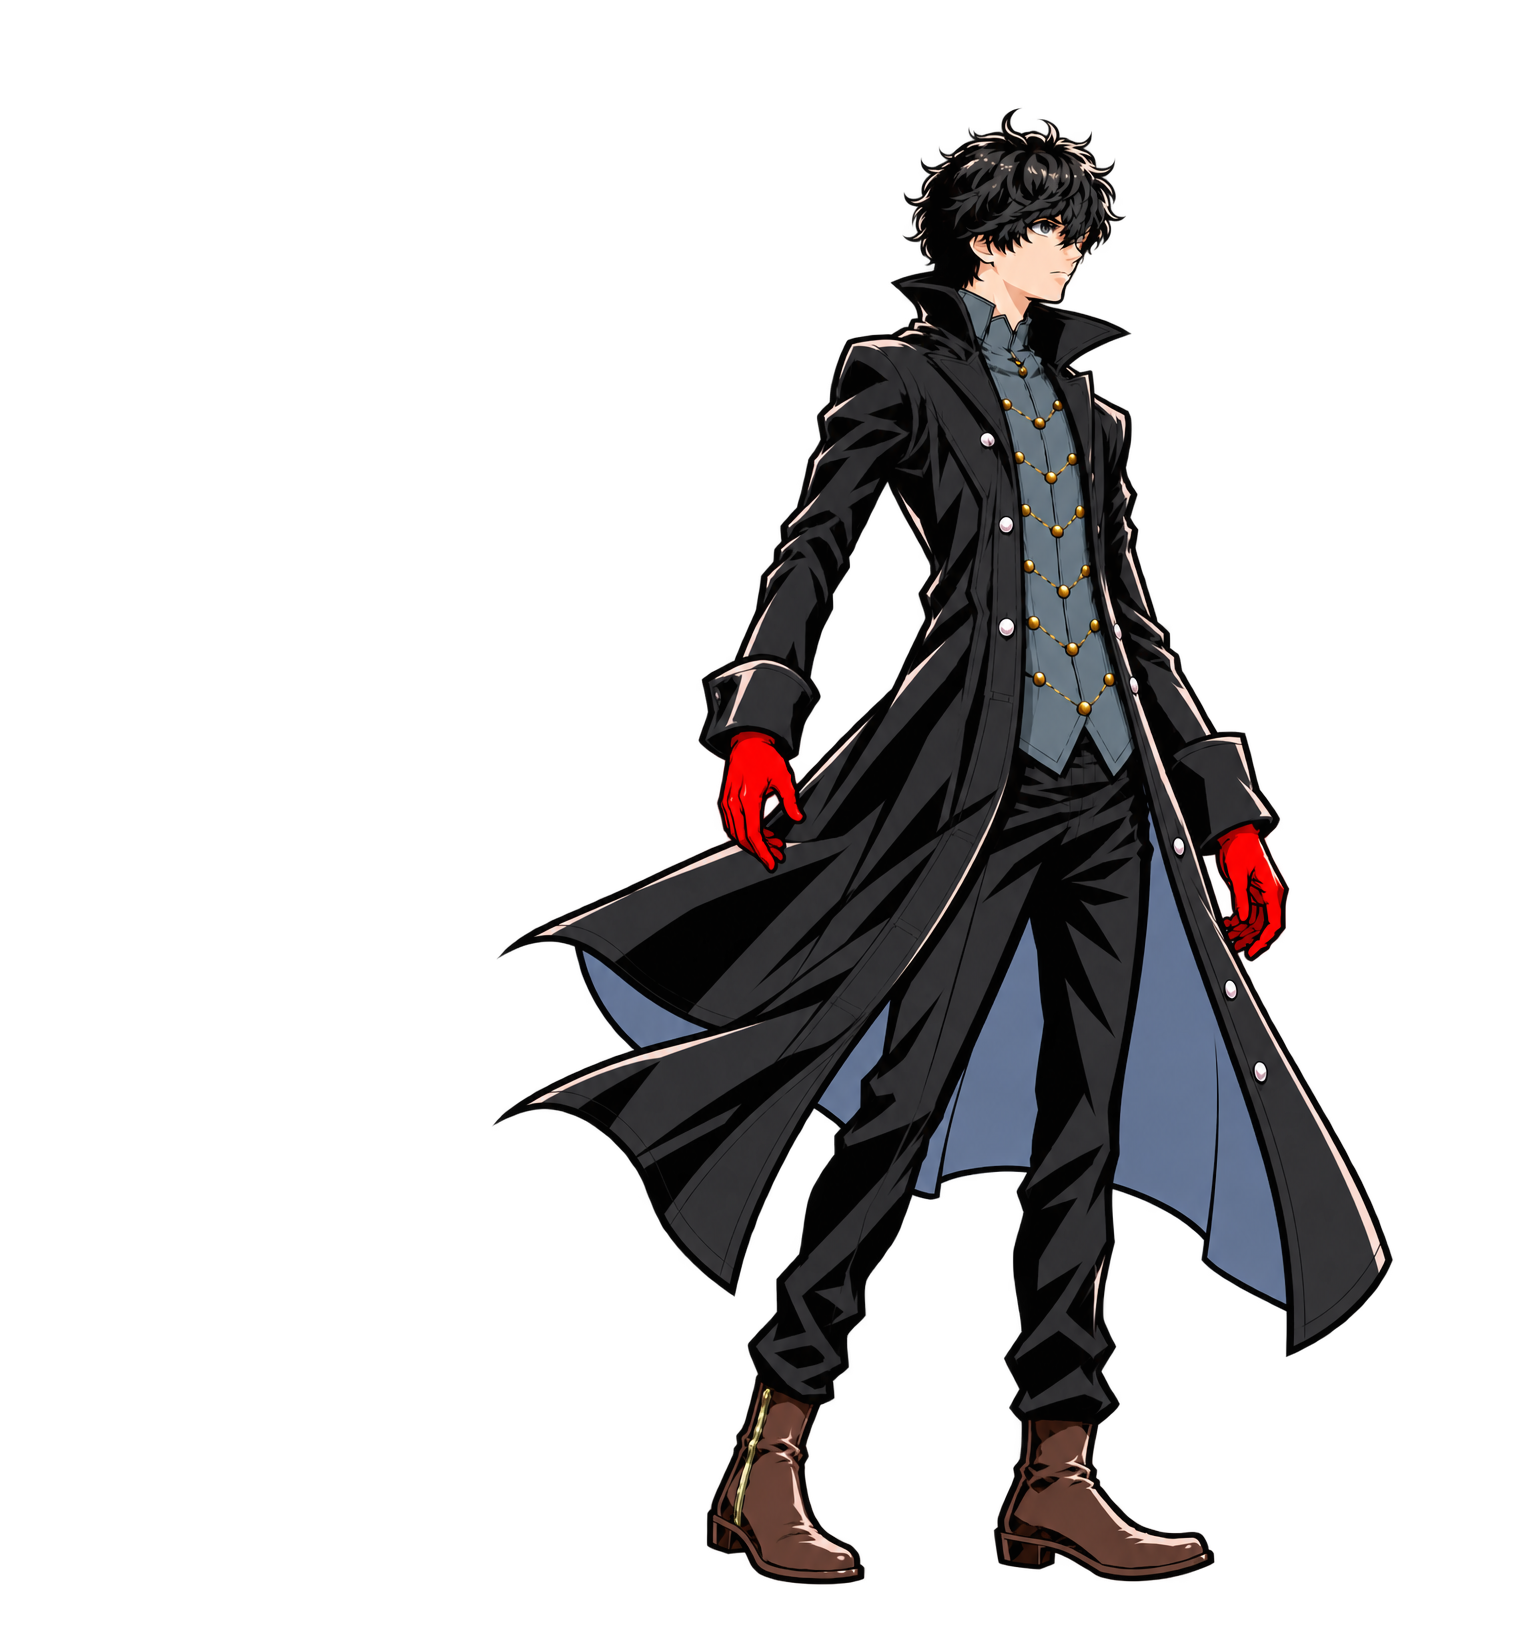
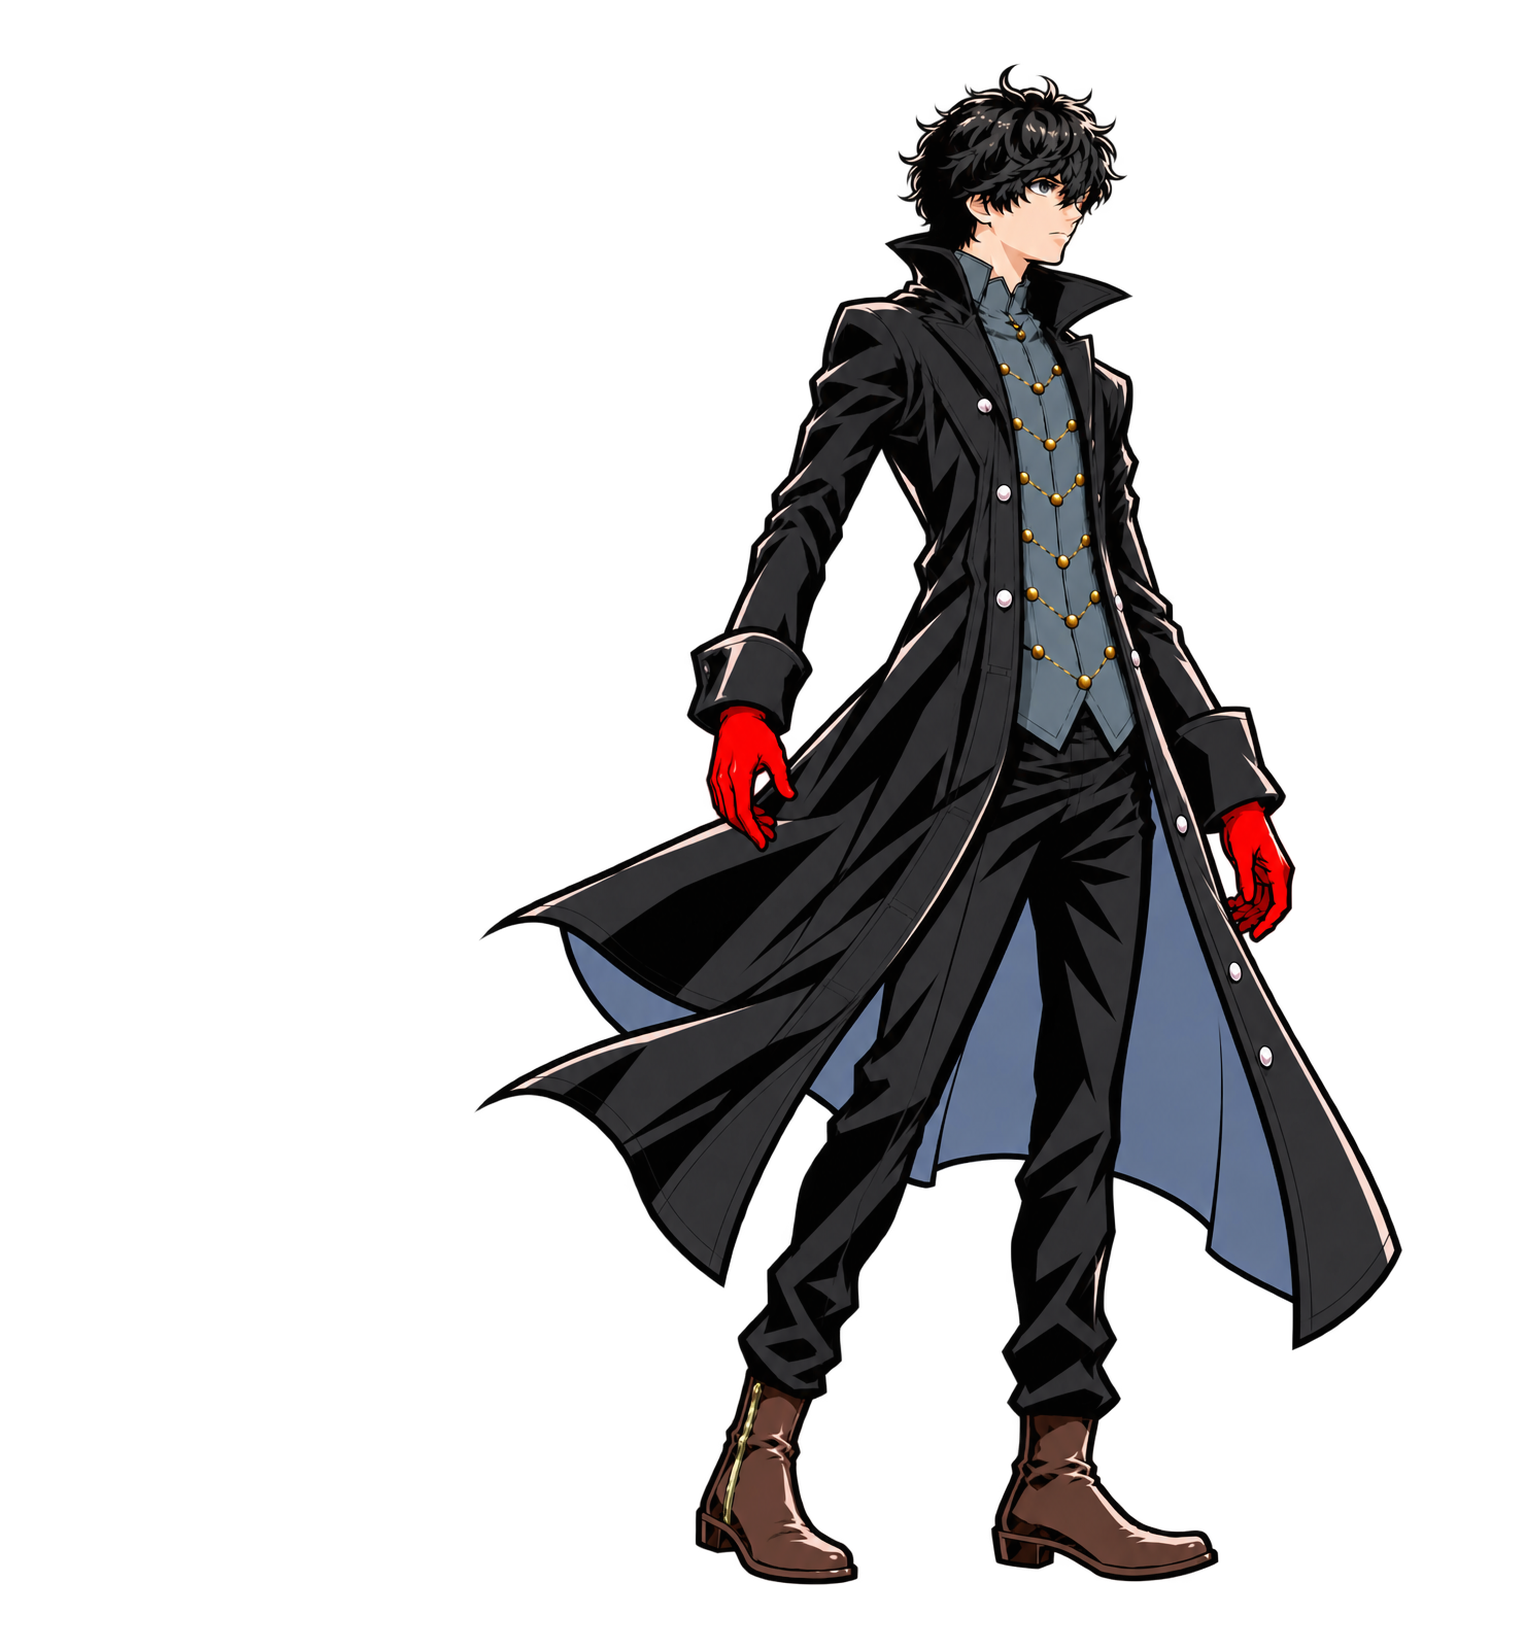
art: P5 summon down1/down2 scaled 1.03 to match
Claude-Session: https://claude.ai/code/session_01Nam5m2bn9ofCCWTGM6fwcN

Changed region(s): [[0.3125, 0.0312, 0.9375, 0.9688]]

diff --git a/tools/p5/normalize_poses.py b/tools/p5/normalize_poses.py
@@ -35,7 +35,7 @@ POSES = {'idle_a3': (1.0, 'rear'), 'guard_a2': (1.0, 'front'), 'knife_ready_a': 
          'summon_lift_bridge_a': (1.0, 'front'), 'summon_touch_mid_a': (1.0, 'front'), 'summon_contact_a': (1.0, 'front'),
          'summon_open1_b': (1.0, 'front'), 'summon_open2_b': (1.0, 'front'),
          'summon_release_b': (1.045, 'front'), 'summon_settle_b': (1.033, 'front'),
-         'summon_down1_b': (1.0, 'front'), 'summon_down2_b': (1.0, 'front'), 'summon_down3_b': (1.0, 'front')}
+         'summon_down1_b': (1.03, 'front'), 'summon_down2_b': (1.03, 'front'), 'summon_down3_b': (1.0, 'front')}
 
 
 def load(n):
